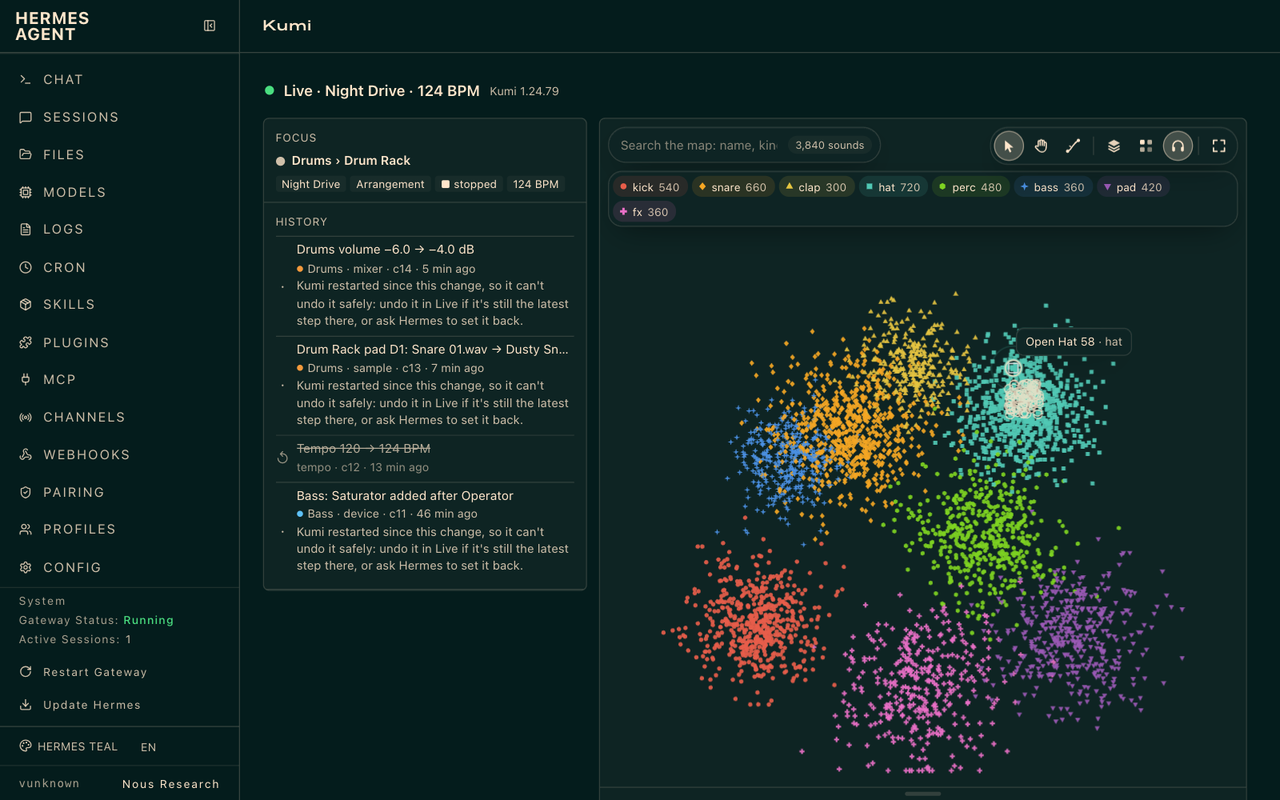
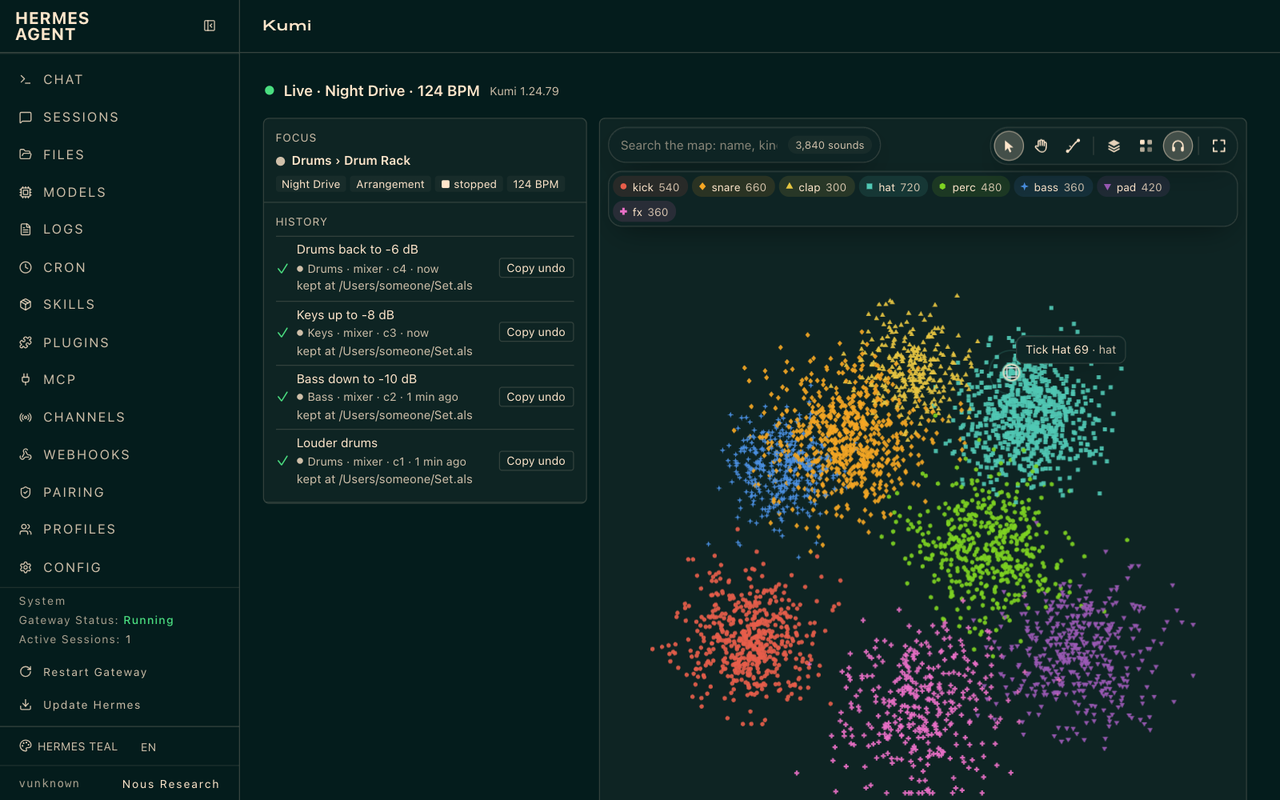
The lead map shot shows the find lit up, the palette shot's rings read at 1280x800, and the dashboard's HISTORY shows Undo on each row

Changed region(s): [[0.5, 0.375, 0.9375, 1.0], [0.2188, 0.3125, 0.4375, 0.7188]]

diff --git a/hermes-plugin/README.md b/hermes-plugin/README.md
@@ -3,7 +3,7 @@
 **Kumi puts Hermes inside Ableton Live, REAPER and Renoise: it hears your mix, makes the changes you ask for (each
 recorded in HISTORY, most undoable), and turns your own samples into new sounds.**
 
-![The sound map in Hermes Desktop: 3,840 sounds laid out by how they sound, each group in its own colour and shape, with a sound's name on hover.](../docs/assets/hermes/screenshots/catalog-2-map.png)
+![The sound map in Hermes Desktop: 3,840 sounds laid out by how they sound, the darker, dustier snares Kumi found lit up, with a sound's name on hover.](../docs/assets/hermes/screenshots/catalog-2-map.png)
 
 ## Quick start
 
@@ -72,20 +72,20 @@ Hermes stays the agent: Kumi gives it a DAW to work in.
 
 *Listening in REAPER with Kumi 1.24.71: a test tone measured beside its reference, in round 2, after a +3 dB level change.*
 
-![The palette: a box of 77 snares picked in white, with what they can do beside them, the palette's 94 hats ringed in the accent, and the palette drawer below, each sound with its waveform.](../docs/assets/hermes/screenshots/catalog-7-palette.png)
+![The palette: a box of 18 snares picked in white, with their actions beside them (Add to palette, Make…, More like these), the palette's 15 hats ringed in the accent, and the palette drawer below, each sound with its waveform.](../docs/assets/hermes/screenshots/catalog-7-palette.png)
 
-*The palette: a box of 77 snares picked in white, with what they can do beside them, the palette's 94 hats ringed in the accent, and the palette drawer below, each sound with its waveform.*
+*The palette: a box of 18 snares picked in white, with their actions beside them (Add to palette, Make…, More like these), the palette's 15 hats ringed in the accent, and the palette drawer below, each sound with its waveform.*
 
 ![Make, open beside the map: a Stack and a Loop at the project's 124 BPM (playing, kept in the palette), each with Reroll, Keep and Use.](../docs/assets/hermes/screenshots/catalog-8-make.png)
 
 *Make, open beside the map: a Stack and a Loop at the project's 124 BPM (playing, kept in the palette), each with Reroll, Keep and Use.*
 
-Screenshots: Kumi 1.24.73 on real Ableton Live 12, and Kumi 1.24.71 on real REAPER 7 (the listening shot). Hermes's
-side of the chat came from a scripted stand-in model, so the words are illustrative; Kumi's side (the pane, the
-approval and the measurements) is real. The listening shot measures a synthetic test tone against a reference made
-3 dB louder, after a level change only; the struck row in its HISTORY is an earlier, undone calibration step. The map,
-palette and Make shots are Kumi 1.24.79 in Hermes v0.23.0's Desktop interface: the 3,840-sound map and its samples are
-generated test data, and the made sounds come from Kumi's sound-design engine.
+Screenshots: the pane and the approval are Kumi 1.24.73 on real Ableton Live 12, and the listening shot is Kumi 1.24.71
+on real REAPER 7. Hermes's side of the chat came from a scripted stand-in model, so the words are illustrative; Kumi's
+side (the pane, the approval and the measurements) is real. The listening shot measures a synthetic test tone against a
+reference made 3 dB louder, after a level change only; the struck row in its HISTORY is an earlier, undone calibration
+step. The map, palette and Make shots are Kumi 1.24.79 in Hermes v0.23.0's Desktop interface: the 3,840-sound map and
+its samples are generated test data, and the made sounds come from Kumi's sound-design engine.
 
 ## Tools
 

diff --git a/docs/en/HERMES.md b/docs/en/HERMES.md
@@ -148,7 +148,7 @@ Setup never starts or quits your DAW, chooses a Control Surface, or saves your p
 
 The palette is the sounds you gather to work with, as in Kumi's own map; Hermes reads and edits the same one.
 
-![The sound map in Hermes Desktop: a box of 77 snares picked in white, with what they can do beside them, the palette's 94 hats ringed in the accent, and the palette drawer below, each sound with its waveform.](../assets/hermes/screenshots/catalog-7-palette.png)
+![The sound map in Hermes Desktop: a box of 18 snares picked in white, with their actions beside them (Add to palette, Make…, More like these), the palette's 15 hats ringed in the accent, and the palette drawer below, each sound with its waveform.](../assets/hermes/screenshots/catalog-7-palette.png)
 
 *Kumi 1.24.79 in Hermes Desktop; the 3,840-sound map and its samples are generated test data.*
 
